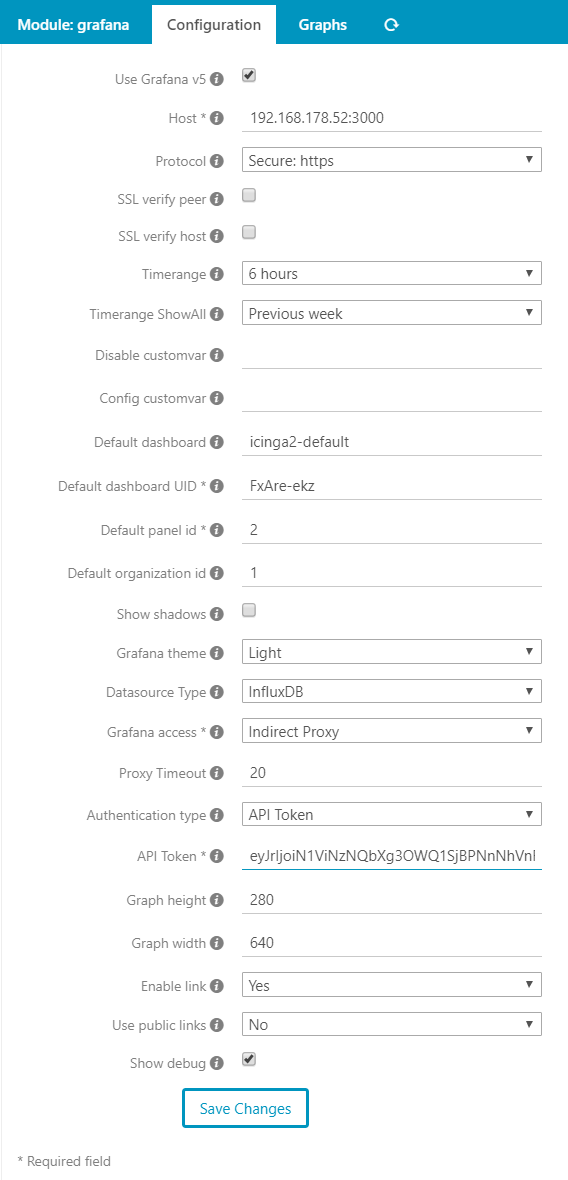
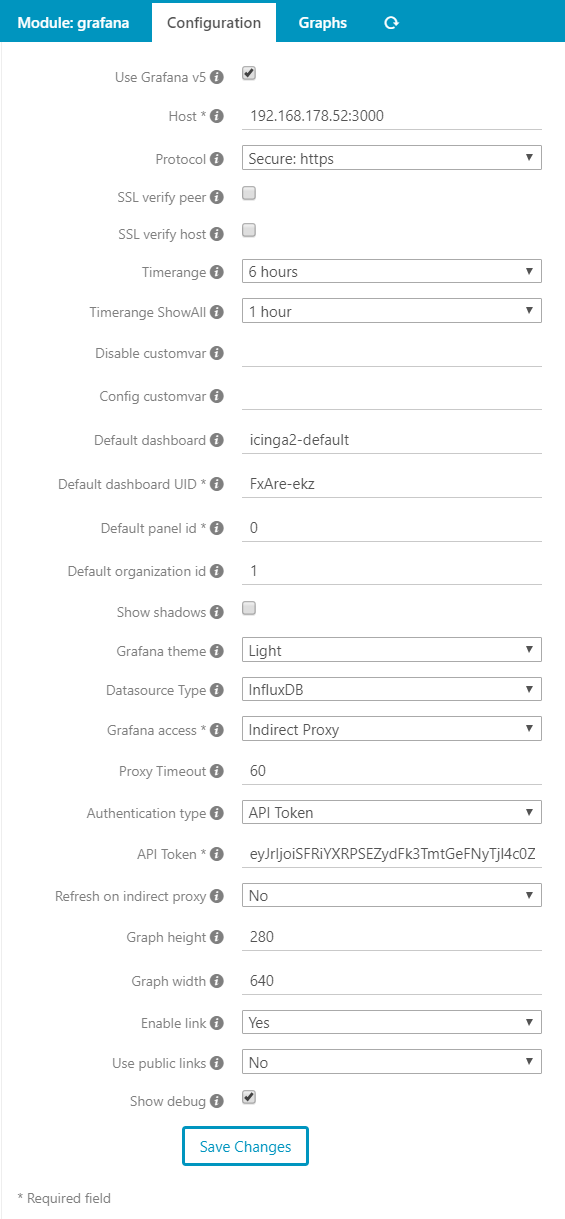
Add config to disable graph refresh in indirect proxy mode. closes #142

Changed region(s): [[0.0, 0.0, 0.9628, 0.9458], [0.2708, 0.0, 1.0, 0.2746], [0.0301, 0.9763, 0.1805, 1.0]]

diff --git a/application/controllers/ImgController.php b/application/controllers/ImgController.php
@@ -45,6 +45,7 @@ class ImgController extends MonitoringAwareController
     protected $cacheTime;
     protected $grafanaVersion           = "0";
     protected $defaultdashboarduid;
+    protected $refresh                 = "yes";
 
 
     public function init()
@@ -86,6 +87,7 @@ class ImgController extends MonitoringAwareController
         $this->height = $this->myConfig->get('height', $this->height);
         $this->width = $this->myConfig->get('width', $this->width);
         $this->proxyTimeout = $this->myConfig->get('proxytimeout', $this->proxyTimeout);
+        $this->refresh = $this->myConfig->get('indirectproxyrefresh', $this->refresh);
         /**
          * Datasource needed to regex special chars
          */
@@ -174,8 +176,13 @@ class ImgController extends MonitoringAwareController
         $imageHtml = "";
         $res = $this->getMyimageHtml($serviceName, $this->getParam('host'), $imageHtml);
         header('Pragma: public');
-        header('Cache-Control: max-age=$this->cacheTime');
-        header('Expires: '. gmdate('D, d M Y H:i:s \G\M\T', time() + $this->cacheTime));
+        if($this->refresh == "yes") {
+            header('Cache-Control: max-age='.$this->cacheTime);
+            header('Expires: ' . gmdate('D, d M Y H:i:s \G\M\T', time() + $this->cacheTime));
+        } else {
+            header('Cache-Control: max-age='. (365*86440));
+            header('Expires: ' . gmdate('D, d M Y H:i:s \G\M\T', time() + 365*86440));
+        }
         header("Content-type: image/png");
         if (! $res)
         {

diff --git a/application/forms/Config/GeneralConfigForm.php b/application/forms/Config/GeneralConfigForm.php
@@ -289,6 +289,21 @@ class GeneralConfigForm extends ConfigForm
                 )
             );
         }
+        if (isset($formData['grafana_accessmode']) && $formData['grafana_accessmode'] === 'indirectproxy') {
+            $this->addElement(
+                'select',
+                'grafana_indirectproxyrefresh',
+                array(
+                    'label' => $this->translate('Refresh on indirect proxy'),
+                    'value' => 'yes',
+                    'multiOptions' => array(
+                        'yes' => $this->translate('Yes'),
+                        'no' => $this->translate('No'),
+                    ),
+                    'description' => $this->translate('Refresh graphs on indirect proxy mode.')
+                )
+            );
+        }
 
         if (isset($formData['grafana_accessmode']) && ( $formData['grafana_accessmode'] != 'iframe' )) {
             $this->addElement(

diff --git a/doc/03-module-configuration.md b/doc/03-module-configuration.md
@@ -61,7 +61,7 @@ ssl_verifyhost = "0"
 
 |Setting                | Short description|
 |-----------------------|-----------------------|
-|version                | **Optional** If you want to use Grafana 5 with all features, enable this option. Defaults to `false`
+|version                | **Optional** If you want to use Grafana 5 with all features, enable this option with `1`(true). Defaults to `0` (false).
 |host                   | **Required.** Grafana server host name (and port).|
 |protocol               | **Optional.** Protocol used to access the Grafana server. Defaults to `http`.|
 |height                 | **Optional.** Global graph height in pixel. Defaults to `280`.|
@@ -83,6 +83,7 @@ ssl_verifyhost = "0"
 |password               | **Proxy with basic only** **Required** HTTP Basic Auth password to access Grafana. Requires the username setting.|
 |apitoken               | **Proxy with token only** **Required** API token used to access Grafana.|
 |directrefresh          | **Direct Only** **Optional.** Refresh graphs on direct access. Defaults to `no`.|
+|indirectproxyrefresh   | **Indirect Proxy Only** **Optional.** Refresh graphs on indirect proxy mode. Defaults to `yes`.|
 |usepublic              | **Optional** Enable usage of publichost/protocol. Defaults to `no`.|
 |publichost             | **Optional** Use a diffrent host for the graph links.|
 |publicprotocol         | **Optional** Use a diffrent protocol for the graph links.|
@@ -206,6 +207,14 @@ The password used to authenticate to Grafana server.
 
 ### apitoken
 API token used to access Grafana. See [Create API Token](http://docs.grafana.org/http_api/auth/#create-api-token) for details how to create a API token.
+
+### directrefresh
+Only for `direct` access mode. Enables or disable graph refresh.
+Defaults to `no`.
+
+### indirectproxyrefresh
+Only for `indirectproxy` access mode. Enables or disable graph refresh with an interval of the service interval.
+Defaults to `yes`.
 
 ### usepublic
 Enables/Disables the usage of a `public` URL to the Grafana server.
